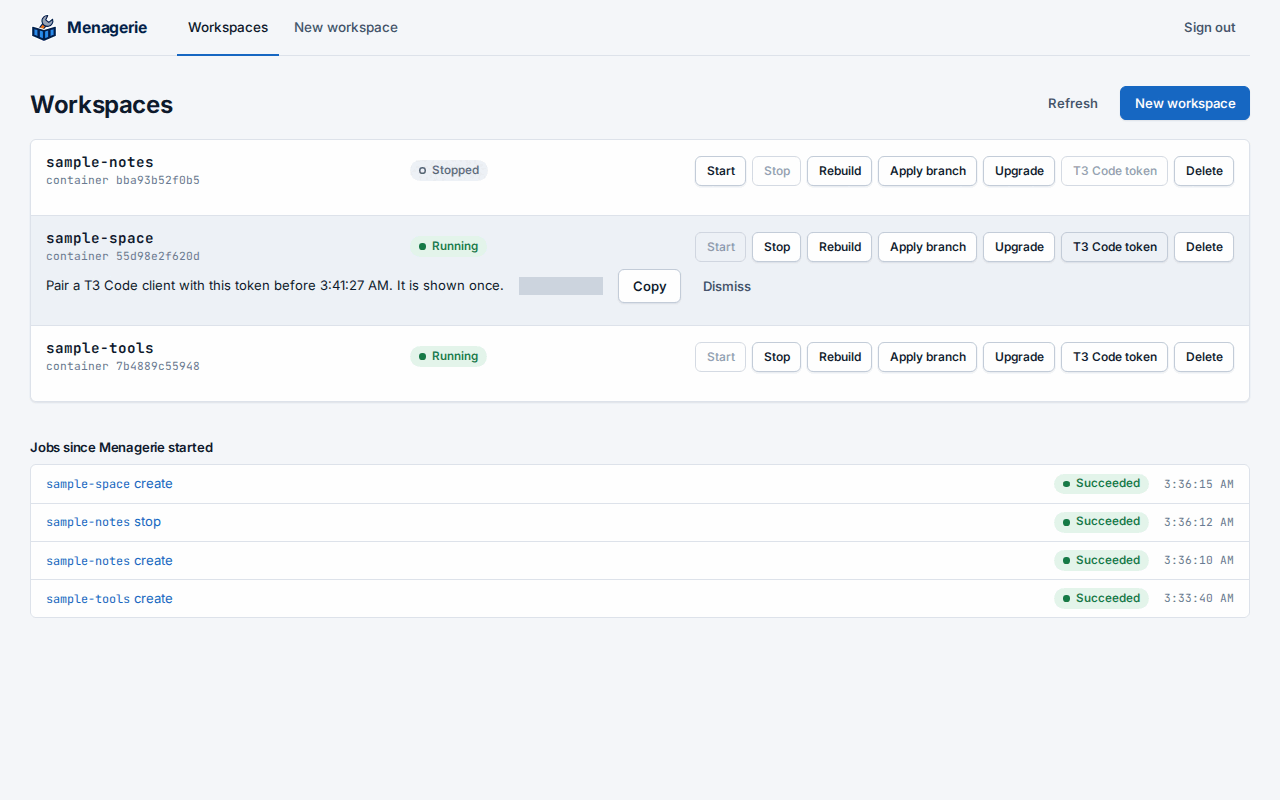
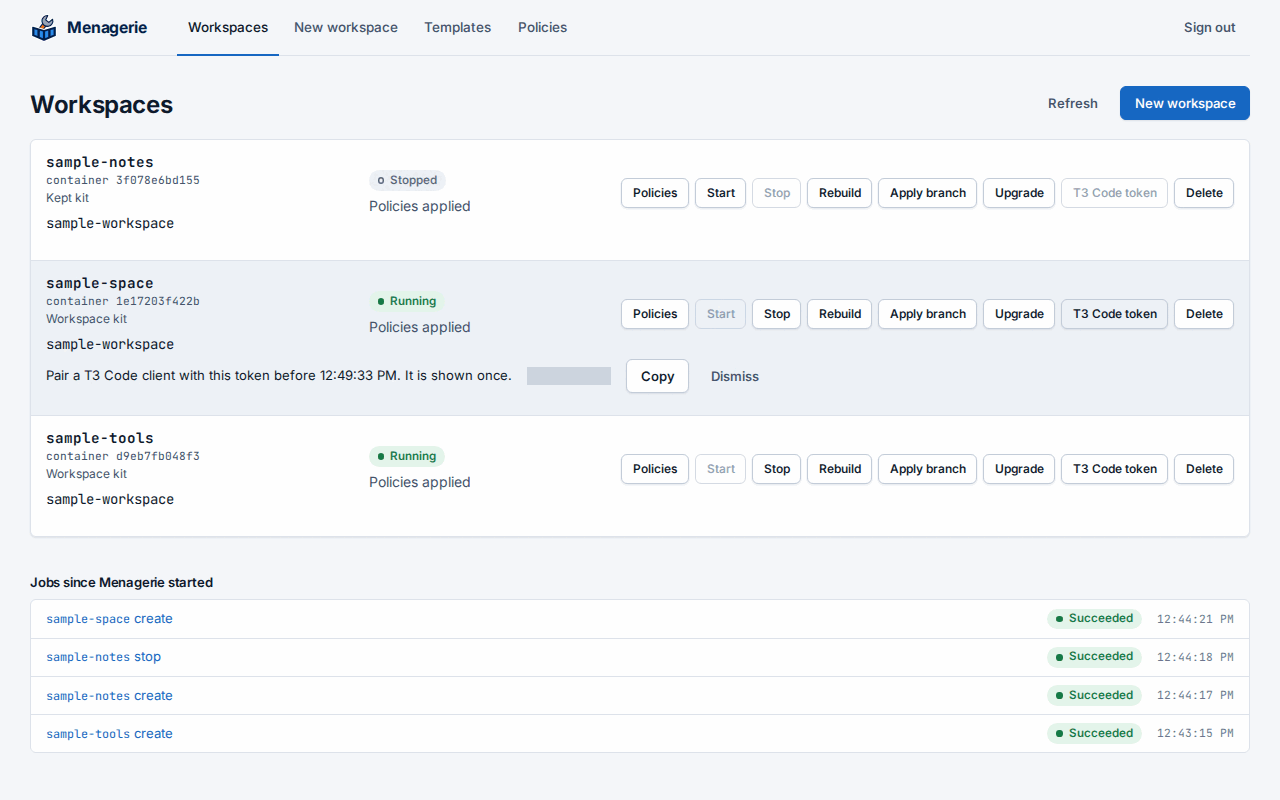
docs(templates): show the templates screen and regenerate the screenshots
The demo upgrades the workspace kit on the Templates screen before it
upgrades the workspace, and records that screen. The usage page shows
it under Upgrade a template, the docs list it as media, and the README
names template registration.

diff --git a/README.md b/README.md
@@ -12,9 +12,10 @@ web UI.
 A workspace is a folder created from a [Toha](https://github.com/wyrd-company/toha)
 template, together with the devcontainer it defines. Managers sign in with
 your identity provider, answer a template's interview to create a workspace,
-see every workspace and its container, start, stop and rebuild them, and
-upgrade a workspace to a newer template version. An upgrade asks only the new
-questions and keeps local edits. A reviewed branch, such as a pull request's
+see every workspace and its container, start, stop and rebuild them, register
+templates from their Git repositories and move them to newer release tags, and
+upgrade a workspace to its template's current version. An upgrade asks only
+the new questions and keeps local edits. A reviewed branch, such as a pull request's
 head, can be applied to a workspace. Every workspace is a Git repository that
 Menagerie backs up to its own branch, on a schedule or when its
 devcontainer asks through its own socket.
@@ -23,7 +24,7 @@ builds and runs the devcontainers, and
 [Wyrwood](https://github.com/wyrd-company/wyrwood) gives Menagerie its SSH
 key or GitHub App key and registry credentials.
 
-![Creating a provisioned workspace, minting a T3 Code pairing token, upgrading and deleting it](docs/user/assets/demo.gif)
+![Creating a provisioned workspace, minting a T3 Code pairing token, upgrading its template and then the workspace, and deleting it](docs/user/assets/demo.gif)
 
 Documentation is at [wyrd.foo/docs/menagerie](https://wyrd.foo/docs/menagerie),
 published from [`docs/user/`](docs/user).

diff --git a/docs/user/usage.md b/docs/user/usage.md
@@ -102,6 +102,8 @@ version that is not one of the repository's versions newer than the current
 one is refused: a template moves only forward. Workspaces keep the version
 they have until you [upgrade them](#upgrade-a-workspace).
 
+![The Templates screen with version 2.0.0 typed into a template's upgrade form](assets/template-upgrade.png)
+
 **Edit** renames a template or changes its runner image; its address does not
 change. **Remove** removes a template no workspace uses; while workspaces use
 it, it is refused, naming them.
